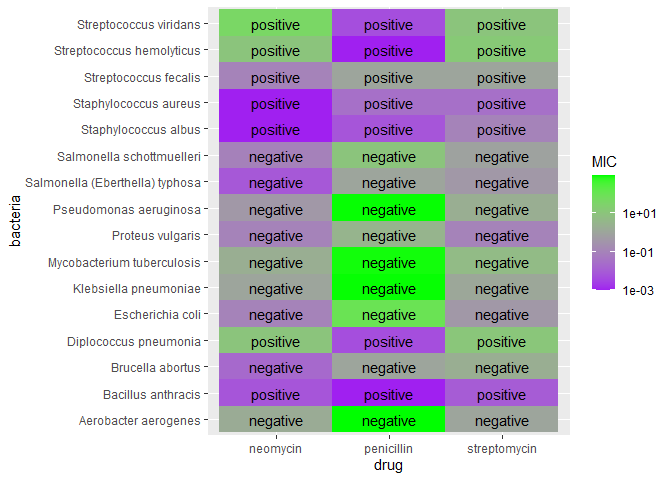
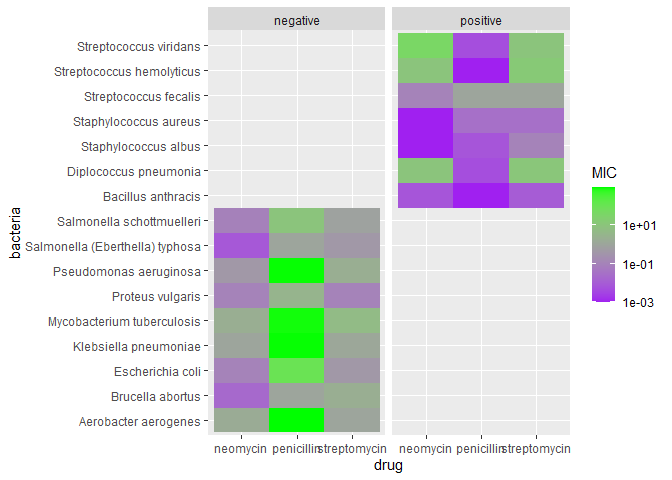
Challenge 5 Corrections

diff --git a/challenges/c05-antibiotics-assignment.md b/challenges/c05-antibiotics-assignment.md
@@ -57,18 +57,38 @@ for more information.
 library(tidyverse)
 ```
 
-    ## ── Attaching packages ─────────────────────────────────────── tidyverse 1.3.2 ──
-    ## ✔ ggplot2 3.4.0      ✔ purrr   1.0.1 
-    ## ✔ tibble  3.1.8      ✔ dplyr   1.0.10
-    ## ✔ tidyr   1.2.1      ✔ stringr 1.5.0 
-    ## ✔ readr   2.1.3      ✔ forcats 0.5.2 
+    ## Warning: package 'tidyverse' was built under R version 4.2.3
+
+    ## Warning: package 'ggplot2' was built under R version 4.2.3
+
+    ## Warning: package 'tibble' was built under R version 4.2.3
+
+    ## Warning: package 'tidyr' was built under R version 4.2.3
+
+    ## Warning: package 'readr' was built under R version 4.2.3
+
+    ## Warning: package 'dplyr' was built under R version 4.2.3
+
+    ## Warning: package 'forcats' was built under R version 4.2.3
+
+    ## Warning: package 'lubridate' was built under R version 4.2.3
+
+    ## ── Attaching core tidyverse packages ──────────────────────── tidyverse 2.0.0 ──
+    ## ✔ dplyr     1.1.1     ✔ readr     2.1.4
+    ## ✔ forcats   1.0.0     ✔ stringr   1.5.0
+    ## ✔ ggplot2   3.4.2     ✔ tibble    3.2.1
+    ## ✔ lubridate 1.9.2     ✔ tidyr     1.3.0
+    ## ✔ purrr     1.0.1     
     ## ── Conflicts ────────────────────────────────────────── tidyverse_conflicts() ──
     ## ✖ dplyr::filter() masks stats::filter()
     ## ✖ dplyr::lag()    masks stats::lag()
+    ## ℹ Use the ]8;;http://conflicted.r-lib.org/conflicted package]8;; to force all conflicts to become errors
 
 ``` r
 library(ggrepel)
 ```
+
+    ## Warning: package 'ggrepel' was built under R version 4.2.3
 
 *Background*: The data\[1\] we study in this challenge report the
 [*minimum inhibitory
@@ -212,13 +232,18 @@ your other visuals.
 
 ``` r
 df_antibiotics_long %>% 
+  mutate(bacteria = fct_reorder(bacteria, gram)) %>% 
   ggplot(aes(drug, bacteria)) +
   scale_fill_gradient(trans="log10", low = "purple", high = "green") +
   geom_tile(mapping = aes(fill = MIC)) +
-  geom_text(aes(label = gram))
+  facet_grid(~gram, scales = "free_y")
 ```
 
 ![](c05-antibiotics-assignment_files/figure-gfm/q1.2-1.png)<!-- -->
+
+``` r
+  # geom_text(aes(label = gram))
+```
 
 #### Visual 3 (Some variables)
 
@@ -271,11 +296,14 @@ your other visuals.
 
 ``` r
 df_antibiotics_long %>%
-  ggplot(aes(bacteria, gram)) +
-  geom_point(mapping = aes(color = MIC), size = 2) +
-  scale_color_gradient(trans="log10", low = "blue", high = "red") +
-  coord_flip() +
-  facet_wrap(vars(drug))
+  filter(drug == "neomycin") %>%
+  mutate(bacteria = fct_reorder(bacteria, MIC)) %>%
+  mutate(bacteria = fct_reorder(bacteria, gram)) %>% 
+  ggplot(aes(bacteria, MIC)) +
+  geom_bar(aes(fill = gram), stat = "identity", width = .75) +
+  geom_hline(yintercept = 1) +
+  scale_y_log10() +
+  coord_flip()
 ```
 
 ![](c05-antibiotics-assignment_files/figure-gfm/q1.5-1.png)<!-- -->
@@ -303,13 +331,13 @@ opportunity to think about why this is.**
 Pennicilin seems to be most effective against bacteria that present a
 negative gram strain, and least effective to those with a positive gram
 stain - Neomycin and streptomycin seem to have similar effects, though
-streptomycin is more effective against staphylooccocus - Which of your
+streptomycin is more effective against staphyloccocus - Which of your
 visuals above (1 through 5) is **most effective** at helping to answer
-this question? - I found visual 5 to be the most helpful for this
+this question? - I found visual 2 to be the most helpful for this
 question. - Why? - Though the color scale isn’t great if I want to read
-specific MIC values, the difference between red and blue is relatively
-easy for me to detect. Also having the gram stain results physically
-separated from each other made it easier to notice patterns
+specific MIC values, the difference between green and purple is
+relatively easy for me to detect. Also having the gram stain results
+physically separated from each other made it easier to notice patterns
 
 #### Guiding Question 2
 
@@ -320,10 +348,15 @@ and in 1984 *Streptococcus fecalis* was renamed *Enterococcus fecalis*
 > Why was *Diplococcus pneumoniae* was renamed *Streptococcus
 > pneumoniae*?
 
-*Observations* - What is your response to the question above? - The way
-the bacteria reacted to the 3 mentioned drugs is similar to other
-strains of Streptococcus - Which of your visuals above (1 through 5) is
-**most effective** at helping to answer this question? - Graph 3 -
+*Observations* - What is your response to the question above? -
+*Diplococcus pneumoniae* showed similar MIC values in the presence of
+the 3 mentioned drugs when compared to the other strains of
+Streptococcus in this dataset as well as also being gram positive. These
+similarities could indicate that the *Diplococcus pneumoniae* has a
+similar biological structure to other Streptococcus, which could explain
+why it was renamed to *Streptococcus pneumoniae* (to be grouped with
+other Streptococcus strains). - Which of your visuals above (1 through
+5) is **most effective** at helping to answer this question? - Graph 3 -
 Why? - I could see Diplococcus pneumoniae had points that were in line
 with the other Streptococcus for all three drugs because all the points
 were on the same axis
